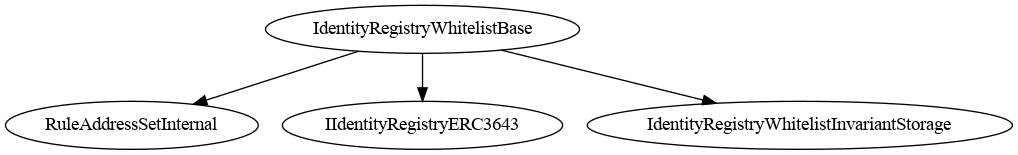
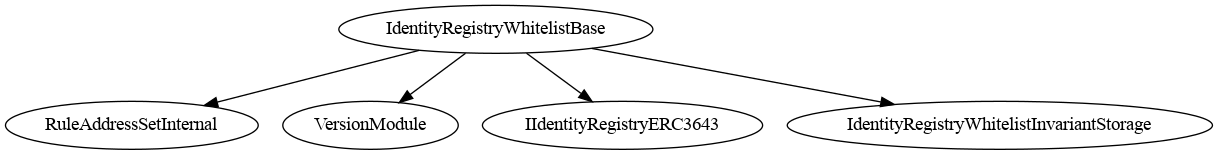
feat(registry): implement IERC3643Version on IdentityRegistryWhitelist and cover it in Version.t.sol

Changed region(s): [[0.0, 0.0258, 1.0, 0.9806], [0.4263, 0.4129, 0.4568, 0.4645], [0.5481, 0.929, 0.5786, 0.9548]]

diff --git a/AGENTS.md b/AGENTS.md
@@ -138,7 +138,7 @@ types appear as parameters or event fields, which canonicalise to `address` and 
 - **All `_authorize*()` / `_only*()` access-control hooks are `internal view virtual`** — both the abstract declaration and every override. An authorization hook checks and reverts; it must never mutate state, and `view` makes that a compiler-enforced invariant rather than a convention. It is free: these are `internal`, so `view` costs no gas and changes no runtime behaviour. Both OZ check functions (`AccessControl._checkRole`, `Ownable._checkOwner`) are `view`, so every hook can be.
   - **One documented exception**: `RuleConditionalTransferLightMultiTokenBase._authorizeComplianceBindingChange` cannot be `view`, because it delegates to `_onlyComplianceManager()`, which `lib/RuleEngine` declares non-`view` (Solidity checks mutability against a virtual's *declared* type, not the installed override). If you hit this constraint elsewhere, document why inline — do not silently drop `view` from a hook.
 - AccessControl variants treat the default admin as having all roles via `hasRole`, but the admin may not appear in role member enumerations unless explicitly granted.
-- All rules implement `IERC3643Version` via `VersionModule`; the current version string is `"0.5.0"` (asserted by `test/Version.t.sol`).
+- All rules **and `IdentityRegistryWhitelist`** implement `IERC3643Version` via `VersionModule`; the current version string is `"0.5.0"`. `test/Version.t.sol` asserts it for every deployable contract — keep it exhaustive, a half-covered version test reads as authoritative while missing the mirror it exists to catch.
 - **ERC-165 interface IDs**: `type(IFoo).interfaceId` only XORs selectors defined directly on `IFoo` and does NOT include selectors from inherited interfaces. Always use the pre-computed library constants instead: `ERC1404ExtendInterfaceId.ERC1404EXTEND_INTERFACE_ID` (from `CMTAT/library/`), `RuleEngineInterfaceId.RULE_ENGINE_INTERFACE_ID` (from `CMTAT/library/`), and `RuleInterfaceId.IRULE_INTERFACE_ID` (from `RuleEngine/modules/library/`). If no pre-computed constant exists for an interface, define a flat mock interface that redeclares all functions from the full inheritance tree and use `type(IFooFlattened).interfaceId` to compute the correct value (see `lib/RuleEngine/src/mocks/IRuleInterfaceIdHelper.sol` for the established pattern).
 - Batch add/remove operations are non-reverting (skip duplicates); single-item operations revert on invalid input.
 - All `internal` functions should be marked `virtual`.

diff --git a/CLAUDE.md b/CLAUDE.md
@@ -138,7 +138,7 @@ types appear as parameters or event fields, which canonicalise to `address` and 
 - **All `_authorize*()` / `_only*()` access-control hooks are `internal view virtual`** — both the abstract declaration and every override. An authorization hook checks and reverts; it must never mutate state, and `view` makes that a compiler-enforced invariant rather than a convention. It is free: these are `internal`, so `view` costs no gas and changes no runtime behaviour. Both OZ check functions (`AccessControl._checkRole`, `Ownable._checkOwner`) are `view`, so every hook can be.
   - **One documented exception**: `RuleConditionalTransferLightMultiTokenBase._authorizeComplianceBindingChange` cannot be `view`, because it delegates to `_onlyComplianceManager()`, which `lib/RuleEngine` declares non-`view` (Solidity checks mutability against a virtual's *declared* type, not the installed override). If you hit this constraint elsewhere, document why inline — do not silently drop `view` from a hook.
 - AccessControl variants treat the default admin as having all roles via `hasRole`, but the admin may not appear in role member enumerations unless explicitly granted.
-- All rules implement `IERC3643Version` via `VersionModule`; the current version string is `"0.5.0"` (asserted by `test/Version.t.sol`).
+- All rules **and `IdentityRegistryWhitelist`** implement `IERC3643Version` via `VersionModule`; the current version string is `"0.5.0"`. `test/Version.t.sol` asserts it for every deployable contract — keep it exhaustive, a half-covered version test reads as authoritative while missing the mirror it exists to catch.
 - **ERC-165 interface IDs**: `type(IFoo).interfaceId` only XORs selectors defined directly on `IFoo` and does NOT include selectors from inherited interfaces. Always use the pre-computed library constants instead: `ERC1404ExtendInterfaceId.ERC1404EXTEND_INTERFACE_ID` (from `CMTAT/library/`), `RuleEngineInterfaceId.RULE_ENGINE_INTERFACE_ID` (from `CMTAT/library/`), and `RuleInterfaceId.IRULE_INTERFACE_ID` (from `RuleEngine/modules/library/`). If no pre-computed constant exists for an interface, define a flat mock interface that redeclares all functions from the full inheritance tree and use `type(IFooFlattened).interfaceId` to compute the correct value (see `lib/RuleEngine/src/mocks/IRuleInterfaceIdHelper.sol` for the established pattern).
 - Batch add/remove operations are non-reverting (skip duplicates); single-item operations revert on invalid input.
 - All `internal` functions should be marked `virtual`.

diff --git a/CHANGELOG.md b/CHANGELOG.md
@@ -96,6 +96,7 @@ requires a second Foundry profile — **`forge test` alone no longer runs everyt
   - The ERC-3643 token must hold `IDENTITY_REGISTRAR_ROLE`, because `recoveryAddress` makes the token call `registerIdentity` and `deleteIdentity`.
   - Reuses `RuleAddressSetInternal` — the same `EnumerableSet` machinery as `RuleWhitelist` / `RuleBlacklist` — for storage, the zero-address guard and the revert errors, so no whitelist contract is deployed and none is re-implemented. Only the internal layer is inherited, so the registry exposes one write API rather than two overlapping ones.
   - **No identity data is kept.** The `_identity` and `_country` arguments exist so the ERC-3643 signature matches, then are discarded; `investorCountry` is a constant `0`. The contract is a wrapper that adapts the token's registry calls onto a plain whitelist. `Token.sol` reads the country in exactly one place (`recoveryAddress`, a pass-through it hands straight back), so the token is unaffected; the exposure is a *custom* compliance module reading `investorCountry`, which would see every investor as country 0.
+  - Implements `IERC3643Version` via `VersionModule`, like the rules: it is a deployable production contract wired into a token's identity slot, so its release must be identifiable on-chain.
   - `isVerified(address(0))` is always `false`; the zero address can never be registered.
 
 ### Changed

diff --git a/doc/surya/surya_report/surya_report_IdentityRegistryWhitelistBase.sol.md b/doc/surya/surya_report/surya_report_IdentityRegistryWhitelistBase.sol.md
@@ -5,7 +5,7 @@
 
 |  File Name  |  SHA-1 Hash  |
 |-------------|--------------|
-| ./registry/abstract/IdentityRegistryWhitelistBase.sol | 45873dc2c77487244e62ee96f807a60595376c28 |
+| src/registry/abstract/IdentityRegistryWhitelistBase.sol | 7d8ecb5618c360d59487a59c4e8bff48743b8ebe |
 
 
 ### Contracts Description Table
@@ -15,7 +15,7 @@
 |:----------:|:-------------------:|:----------------:|:----------------:|:---------------:|
 |     └      |  **Function Name**  |  **Visibility**  |  **Mutability**  |  **Modifiers**  |
 ||||||
-| **IdentityRegistryWhitelistBase** | Implementation | RuleAddressSetInternal, IIdentityRegistryERC3643, IdentityRegistryWhitelistInvariantStorage |||
+| **IdentityRegistryWhitelistBase** | Implementation | RuleAddressSetInternal, VersionModule, IIdentityRegistryERC3643, IdentityRegistryWhitelistInvariantStorage |||
 | └ | registerIdentity | External ❗ | 🛑  | onlyIdentityRegistrar |
 | └ | deleteIdentity | External ❗ | 🛑  | onlyIdentityRegistrar |
 | └ | registeredIdentityCount | External ❗ |   |NO❗ |

diff --git a/doc/technical/IdentityRegistryWhitelist.md b/doc/technical/IdentityRegistryWhitelist.md
@@ -110,6 +110,12 @@ Whitelist membership. **`isVerified(address(0))` is always `false`** — the zer
 
 **Always returns 0.** No country is stored. The function exists only because `recoveryAddress` calls it — omitting it would make every recovery revert — and the 0 it returns is handed straight back into `registerIdentity`, which ignores it. See [Limitation 3](#3-no-identity-data-is-kept).
 
+### `version() → string`
+
+Returns the library release the contract was deployed from (currently `"0.5.0"`), via `VersionModule`. The
+registry is not a rule, but it is a deployable production contract wired into a token's identity slot, so being
+able to identify its release matters for the same reasons it does for the rules.
+
 ### `registeredIdentityCount() → uint256`
 
 How many wallets are registered. There is deliberately no full enumeration getter, matching `RuleWhitelist` and `RuleBlacklist`, which expose a count but not the member list.

diff --git a/doc/surya/surya_report/surya_report_IdentityRegistryWhitelist.sol.md b/doc/surya/surya_report/surya_report_IdentityRegistryWhitelist.sol.md
@@ -5,7 +5,7 @@
 
 |  File Name  |  SHA-1 Hash  |
 |-------------|--------------|
-| ./registry/IdentityRegistryWhitelist.sol | 97e256cb54c331930e96e508993919d68d0db772 |
+| src/registry/IdentityRegistryWhitelist.sol | 97e256cb54c331930e96e508993919d68d0db772 |
 
 
 ### Contracts Description Table
